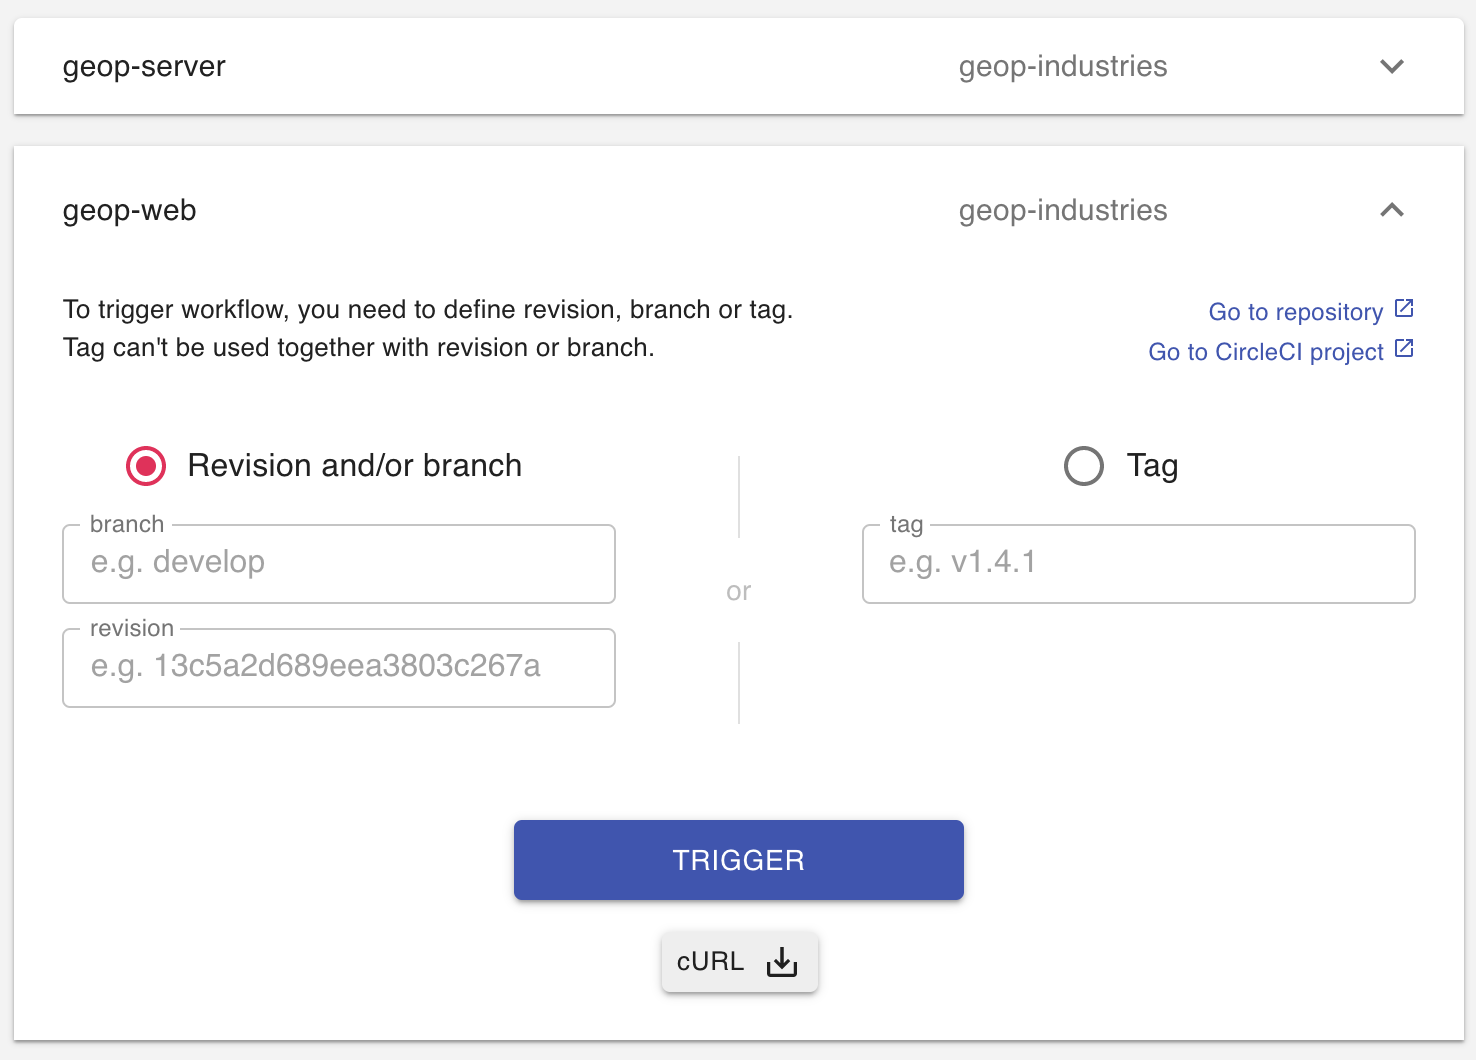
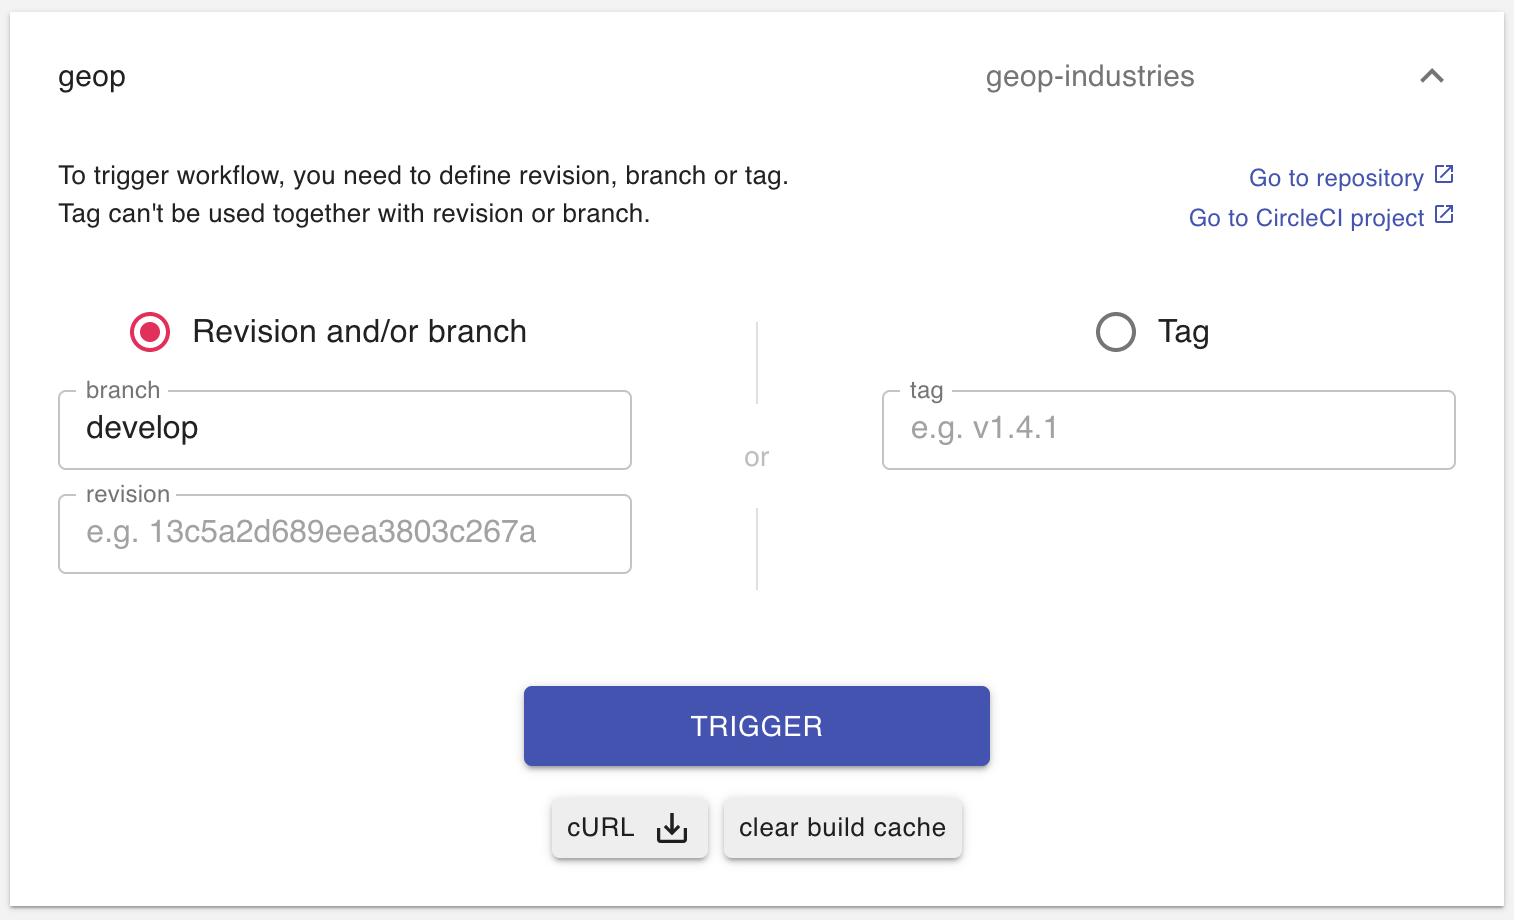
Clear build cache feature

diff --git a/src/Repository.tsx b/src/Repository.tsx
@@ -21,7 +21,7 @@ import ExpansionPanelSummary from "@material-ui/core/ExpansionPanelSummary";
 
 import asyncProcess from "./utils/async-process";
 import prepareRequestUrl from "./utils/prepareRequestUrl";
-import { triggerWorkflow } from "./api";
+import { triggerWorkflow, clearCache } from "./api";
 import { RepositoryType } from "./types";
 
 type PropType<TObj, TProp extends keyof TObj> = TObj[TProp];
@@ -32,6 +32,11 @@ type FormDataType = {
   tag: string;
   branch: string;
   revision: string;
+};
+
+const ACTIONS = {
+  "TRIGGER-WORKFLOW": "TRIGGER-WORKFLOW",
+  "CLEAR-CACHE": "CLEAR-CACHE"
 };
 
 function prepareRequestPayload(formDataType: FormDataType, activeParametersGroup: ActiveParametersGroupType) {
@@ -64,12 +69,16 @@ const styles = (theme: Theme) =>
     triggerButton: {
       height: "40px"
     },
-    curlButton: {
+    subActionButton: {
       textTransform: "none",
       paddingLeft: theme.spacing(1),
       paddingRight: theme.spacing(1),
+      marginRight: theme.spacing(1),
       marginTop: theme.spacing(2),
-      backgroundColor: theme.palette.grey[200]
+      backgroundColor: theme.palette.grey[200],
+      "&:last-child": {
+        marginRight: 0
+      }
     },
     curlInput: {
       position: "absolute",
@@ -159,15 +168,17 @@ interface State extends FormDataType {
   tagError?: string;
   branchRevisionError?: string;
   error?: string;
-  pending: boolean;
+  actionPending: string | null;
   clipboardPopoverVisible: boolean;
   triggerPopoverVisible: boolean;
+  clearCachePopoverVisible: boolean;
   activeParametersGroup: "REVISION-BRANCH" | "TAG";
 }
 
 class Repository extends Component<Props, State> {
   curlInputRef = createRef<HTMLInputElement>();
   curlButtonRef = createRef<HTMLButtonElement>();
+  clearCacheButtonRef = createRef<HTMLButtonElement>();
   triggerButtonRef = createRef<HTMLButtonElement>();
   cancelRequest?: () => void = undefined;
 
@@ -176,9 +187,10 @@ class Repository extends Component<Props, State> {
     tag: "",
     branch: "",
     revision: "",
-    pending: false,
+    actionPending: null,
     clipboardPopoverVisible: false,
-    triggerPopoverVisible: false
+    triggerPopoverVisible: false,
+    clearCachePopoverVisible: false
   };
 
   componentWillUnmount() {
@@ -212,7 +224,7 @@ class Repository extends Component<Props, State> {
         this.cancelRequest = undefined;
 
         this.setState({
-          pending: false,
+          actionPending: null,
           triggerPopoverVisible: true
         });
       });
@@ -230,6 +242,7 @@ class Repository extends Component<Props, State> {
 
     return `curl -X POST ${prepareRequestUrl(
       repository,
+      "build",
       token
     )} -H "Content-Type: application/json" -d '${JSON.stringify(
       prepareRequestPayload({ branch, tag, revision }, activeParametersGroup)
@@ -245,6 +258,36 @@ class Repository extends Component<Props, State> {
         clipboardPopoverVisible: true
       });
     }
+  };
+
+  onResetCache = () => {
+    const { repository, token } = this.props;
+
+    const [promise, cancel] = asyncProcess(clearCache.bind(null, repository, token));
+
+    this.cancelRequest = cancel;
+
+    this.setState({
+      error: undefined,
+      tagError: undefined,
+      branchRevisionError: undefined,
+      actionPending: ACTIONS["CLEAR-CACHE"]
+    });
+
+    promise
+      .catch(error => {
+        this.setState({
+          error: error.message
+        });
+      })
+      .finally(() => {
+        this.cancelRequest = undefined;
+
+        this.setState({
+          actionPending: null,
+          clearCachePopoverVisible: true
+        });
+      });
   };
 
   onTriggerWorkflow = (e: FormEvent<HTMLFormElement>) => {
@@ -274,7 +317,7 @@ class Repository extends Component<Props, State> {
     }
 
     this.setState({
-      pending: true
+      actionPending: ACTIONS["TRIGGER-WORKFLOW"]
     });
 
     this.triggerWorkflow();
@@ -318,6 +361,12 @@ class Repository extends Component<Props, State> {
     });
   };
 
+  onClearCachePopoverClose = () => {
+    this.setState({
+      clearCachePopoverVisible: false
+    });
+  };
+
   render() {
     const { expanded, onToggle, classes, repository } = this.props;
     const {
@@ -326,9 +375,10 @@ class Repository extends Component<Props, State> {
       revision,
       activeParametersGroup,
       error,
-      pending,
+      actionPending,
       clipboardPopoverVisible,
       triggerPopoverVisible,
+      clearCachePopoverVisible,
       tagError,
       branchRevisionError
     } = this.state;
@@ -398,7 +448,7 @@ class Repository extends Component<Props, State> {
                   placeholder="e.g. develop"
                   label="branch"
                   name="branch"
-                  disabled={pending}
+                  disabled={actionPending === ACTIONS["TRIGGER-WORKFLOW"]}
                   value={branch}
                 />
                 <TextField
@@ -413,7 +463,7 @@ class Repository extends Component<Props, State> {
                   label="revision"
                   placeholder="e.g. 13c5a2d689eea3803c267a"
                   name="revision"
-                  disabled={pending}
+                  disabled={actionPending === ACTIONS["TRIGGER-WORKFLOW"]}
                   value={revision}
                 />
                 <FormHelperText error={true}>{branchRevisionError}</FormHelperText>
@@ -450,7 +500,7 @@ class Repository extends Component<Props, State> {
                   placeholder="e.g. v1.4.1"
                   name="tag"
                   autoComplete="off"
-                  disabled={pending}
+                  disabled={actionPending === ACTIONS["TRIGGER-WORKFLOW"]}
                   value={tag}
                 />
                 <FormHelperText error={true}>{tagError}</FormHelperText>
@@ -490,45 +540,75 @@ class Repository extends Component<Props, State> {
                       color="primary"
                       ref={this.triggerButtonRef}
                       fullWidth
-                      disabled={pending}
+                      disabled={actionPending === ACTIONS["TRIGGER-WORKFLOW"]}
                       className={classes.triggerButton}
                     >
-                      {pending ? "Loading..." : "Trigger"}
+                      {actionPending === ACTIONS["TRIGGER-WORKFLOW"] ? "Loading..." : "Trigger"}
                     </Button>
-                    <Popover
-                      open={clipboardPopoverVisible}
-                      anchorEl={this.curlButtonRef.current}
-                      onClose={this.onClipboardPopoverClose}
-                      anchorOrigin={{
-                        vertical: "bottom",
-                        horizontal: "center"
-                      }}
-                      transformOrigin={{
-                        vertical: "top",
-                        horizontal: "center"
-                      }}
-                    >
-                      <Typography className={classes.popover}>cURL copied to clipboard</Typography>
-                    </Popover>
-                    <Button
-                      size="small"
-                      type="button"
-                      variant="contained"
-                      className={classes.curlButton}
-                      ref={this.curlButtonRef}
-                      onClick={this.onCopyCurl}
-                    >
-                      cURL
-                      <SaveAltIcon className={classes.curlIcon} />
-                    </Button>
-                    <input
-                      placeholder="curl"
-                      className={classes.curlInput}
-                      value={this.generateCurl()}
-                      ref={this.curlInputRef}
-                      tabIndex={-1}
-                      readOnly
-                    />
+                    <Box display="flex">
+                      <Popover
+                        open={clipboardPopoverVisible}
+                        anchorEl={this.curlButtonRef.current}
+                        onClose={this.onClipboardPopoverClose}
+                        anchorOrigin={{
+                          vertical: "bottom",
+                          horizontal: "center"
+                        }}
+                        transformOrigin={{
+                          vertical: "top",
+                          horizontal: "center"
+                        }}
+                      >
+                        <Typography className={classes.popover}>cURL copied to clipboard</Typography>
+                      </Popover>
+                      <Button
+                        size="small"
+                        type="button"
+                        variant="contained"
+                        className={classes.subActionButton}
+                        ref={this.curlButtonRef}
+                        onClick={this.onCopyCurl}
+                      >
+                        cURL
+                        <SaveAltIcon className={classes.curlIcon} />
+                      </Button>
+                      <input
+                        placeholder="curl"
+                        className={classes.curlInput}
+                        value={this.generateCurl()}
+                        ref={this.curlInputRef}
+                        tabIndex={-1}
+                        readOnly
+                      />
+                      <Popover
+                        open={clearCachePopoverVisible}
+                        anchorEl={this.clearCacheButtonRef.current}
+                        onClose={this.onClearCachePopoverClose}
+                        anchorOrigin={{
+                          vertical: "bottom",
+                          horizontal: "center"
+                        }}
+                        transformOrigin={{
+                          vertical: "center",
+                          horizontal: "center"
+                        }}
+                      >
+                        <Typography className={`${classes.popover} ${classes.popoverSuccess}`}>
+                          Cache cleared!
+                        </Typography>
+                      </Popover>
+                      <Button
+                        size="small"
+                        type="button"
+                        variant="contained"
+                        className={classes.subActionButton}
+                        ref={this.clearCacheButtonRef}
+                        disabled={actionPending === ACTIONS["CLEAR-CACHE"]}
+                        onClick={this.onResetCache}
+                      >
+                        {actionPending === ACTIONS["CLEAR-CACHE"] ? "Loading..." : "clear build cache"}
+                      </Button>
+                    </Box>
                   </Box>
                 </Grid>
               </Grid>

diff --git a/src/api.ts b/src/api.ts
@@ -21,12 +21,26 @@ export function* fetchRepositories(token: string) {
 }
 
 export function* triggerWorkflow(repository: RepositoryType, token: string, data: object) {
-  const response = yield fetch(process.env.REACT_APP_PROXY_URL + prepareRequestUrl(repository, token), {
+  const response = yield fetch(process.env.REACT_APP_PROXY_URL + prepareRequestUrl(repository, "build", token), {
     method: "POST",
     headers: {
       "Content-Type": "application/json"
     },
     body: JSON.stringify(data)
+  });
+
+  if (response.ok) {
+    return true;
+  }
+
+  const body = yield response.json();
+
+  throw new Error(body.message);
+}
+
+export function* clearCache(repository: RepositoryType, token: string) {
+  const response = yield fetch(process.env.REACT_APP_PROXY_URL + prepareRequestUrl(repository, "build-cache", token), {
+    method: "DELETE"
   });
 
   if (response.ok) {

diff --git a/src/utils/prepareRequestUrl.ts b/src/utils/prepareRequestUrl.ts
@@ -1,7 +1,7 @@
 import { RepositoryType } from "../types";
 
-export default function prepareRequestUrl(repository: RepositoryType, token: string) {
+export default function prepareRequestUrl(repository: RepositoryType, action: string, token: string) {
   const { vcsType, organisation, name } = repository;
 
-  return `https://circleci.com/api/v1.1/project/${vcsType}/${organisation}/${name}/build?circle-token=${token}`;
+  return `https://circleci.com/api/v1.1/project/${vcsType}/${organisation}/${name}/${action}?circle-token=${token}`;
 }
